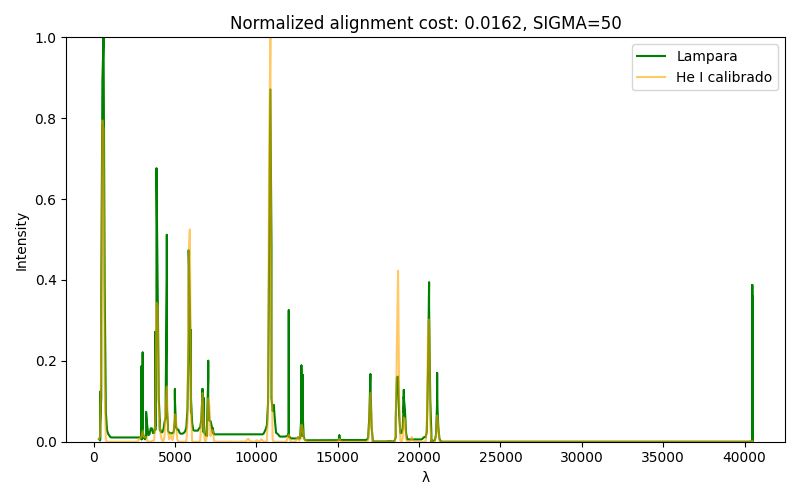
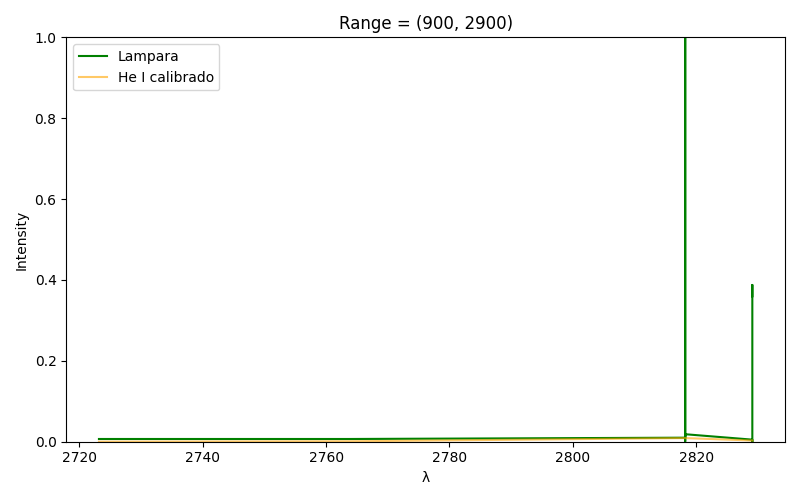
s

diff --git a/DTWTeoricaLampEqualize.py b/DTWTeoricaLampEqualize.py
@@ -19,16 +19,16 @@ lamp_y = lamp_data
 # nor_lamp_y = (lamp_y - min_lamp_y) / (max_lamp_y - min_lamp_y)
 lamp_y, _, _ = processor.normalize_min_max(lamp_y)
 
-plt.figure(figsize=(8, 5))
-plt.plot(lamp_x, lamp_y, color="green", alpha=1, label=f"Lampara")
-plt.ylim(0, 1)
-plt.xlabel('\u03BB')
-plt.ylabel('Intensity')
-plt.title("Lampara")
-plt.legend()
-plt.tight_layout()
-plt.savefig(f"Lampara.png")
-plt.show()
+# plt.figure(figsize=(8, 5))
+# plt.plot(lamp_x, lamp_y, color="green", alpha=1, label=f"Lampara")
+# plt.ylim(0, 1)
+# plt.xlabel('\u03BB')
+# plt.ylabel('Intensity')
+# plt.title("Lampara")
+# plt.legend()
+# plt.tight_layout()
+# plt.savefig(f"Lampara.png")
+# plt.show()
 
 # Datos de picos del NIST
 csv_filename = os.path.join(script_dir, "Tabla(NIST)_Int_Long_Mat_Ref.csv")
@@ -81,12 +81,77 @@ new_lamp_y = [lamp_y[tupla[0]] for tupla in path]
 # plt.savefig(f"CalibradoConHeIGaussS={sigma}.png")
 # plt.show()
 
-rango_lamp = (3400, 4900)
-rango_teorico = (np.min(teorico_x_au), np.max(teorico_y_au))
-min_interior = rango_lamp[0] if rango_teorico[0] > rango_lamp[0] else rango_teorico[0]
-max_interior = rango_lamp[1] if rango_lamp[1] < rango_teorico[1] else rango_teorico[1]
-interseccion = max_interior - min_interior
+#/////////////////////////////////////// 
+# DTW por partes
 
-union = None
-IoU = interseccion / union
+# min_interior = rango_lamp[0] if rango_teorico[0] > rango_lamp[0] else rango_teorico[0]
+# max_interior = rango_lamp[1] if rango_lamp[1] < rango_teorico[1] else rango_teorico[1]
+# interseccion = max_interior - min_interior
+# union = None
+# IoU = interseccion / union
+
+def slice_with_range_step(arr_x, arr_y, W_RANGE, STEP):
+    ranges = []
+    sub_arrs_x = []
+    sub_arrs_y = []
+    inicio = 0 #arr_x[0]
+    pos = 0
+    while inicio < (arr_x[len(arr_x)-1]):
+        fin = inicio + W_RANGE
+        arr_aux=[]
+        arr_auy=[]
+        i = pos
+        while i<len(arr_x) and arr_x[i]<fin:
+            arr_aux.append(arr_x[i])
+            arr_auy.append(arr_y[i])
+            i+=1
+        pos=i
+        ranges.append((inicio, fin))
+        inicio=inicio+STEP
+        sub_arrs_x.append(arr_aux)
+        sub_arrs_y.append(arr_auy)
+    return ranges, sub_arrs_x, sub_arrs_y
+
+W_RANGE = 2000
+STEP = 300
+SIGMA = 50
+
+ranges, slices_x, slices_y = slice_with_range_step(teorico_x, teorico_y, W_RANGE, STEP)
+slices_x_au = []
+slices_y_au = []
+print("lamp_X=",len(lamp_x))
+for k in range(0, len(slices_x)): # <== Meter graficos de las rebanadas
+    slice_x_au, slice_y_au = processor.gaussianice(x=slices_x[k], y=slices_y[k], 
+                                                    resolution=len(lamp_x), sigma=sigma,
+                                                    rang=ranges[k])    
+    slice_y_au, _, _ = processor.normalize_min_max(slice_y_au)
+    slices_x_au.append(slice_x_au)
+    slices_y_au.append(slice_y_au)
+
+for k in range(0, len(slices_x)):
+    N = lamp_y.shape[0]
+    M = len(slices_y[k])
+    dist_mat = np.zeros((N, M))
+    for i in range(N):
+        for j in range(M):
+            dist_mat[i, j] = abs(lamp_y[i] - slices_y[k][j])
+    if dist_mat.size == 0:
+        continue
+    path, cost_mat = dp(dist_mat)
+
+    new_lamp_x = [slices_x[k][tupla[1]] for tupla in path]
+    new_lamp_y = [lamp_y[tupla[0]] for tupla in path]
+    
+    plt.figure(figsize=(8, 5))
+    plt.plot(new_lamp_x, new_lamp_y, color="green", alpha=1, label=f"Lampara")
+    plt.plot(slices_x[k], slices_y[k], color="orange", alpha=0.6, label=f"{filter} calibrado")    
+    print(len(new_lamp_y), len(slices_y[k]))
+    plt.ylim(0, 1)
+    plt.xlabel('\u03BB')
+    plt.ylabel('Intensity')
+    plt.title(f"Range = {ranges[k]}")
+    plt.legend()
+    plt.tight_layout()
+    plt.savefig(f"CalibradoConHeIGaussS={sigma}.png")
+    plt.show()
 

diff --git a/utils.py b/utils.py
@@ -1,3 +1,4 @@
+import os
 from enum import Enum
 from astropy.io import fits
 from scipy.ndimage import gaussian_filter1d
@@ -93,11 +94,17 @@ class Processor:
             min = np.min(target)
         if(not max):
             max = np.max(target)
+        if(max==min):
+            return target, min, max
         nor_target = (target - min) / (max - min)
         return nor_target, min, max
     
-    def gaussianice(self, x, y, resolution:int, sigma:float): 
-        x_au = np.linspace(np.min(x), np.max(x), resolution)
+    def gaussianice(self, x, y, resolution:int, sigma:float, rang=None): 
+        if(rang):
+            x_au = np.linspace(rang[0], rang[1], resolution)
+            print(x_au)
+        else:
+            x_au = np.linspace(np.min(x), np.max(x), resolution)
         y_au = np.zeros_like(x_au)
         for i in range(len(y)):
             mu = x[i]
